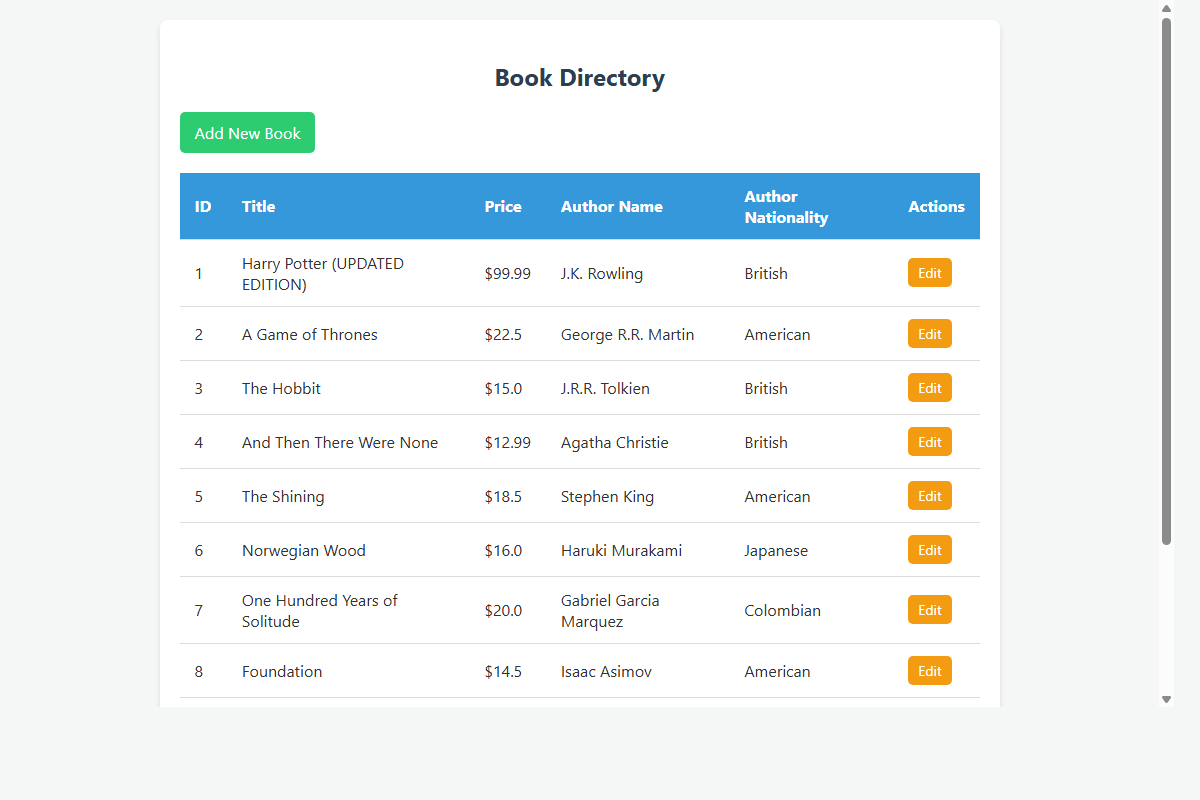
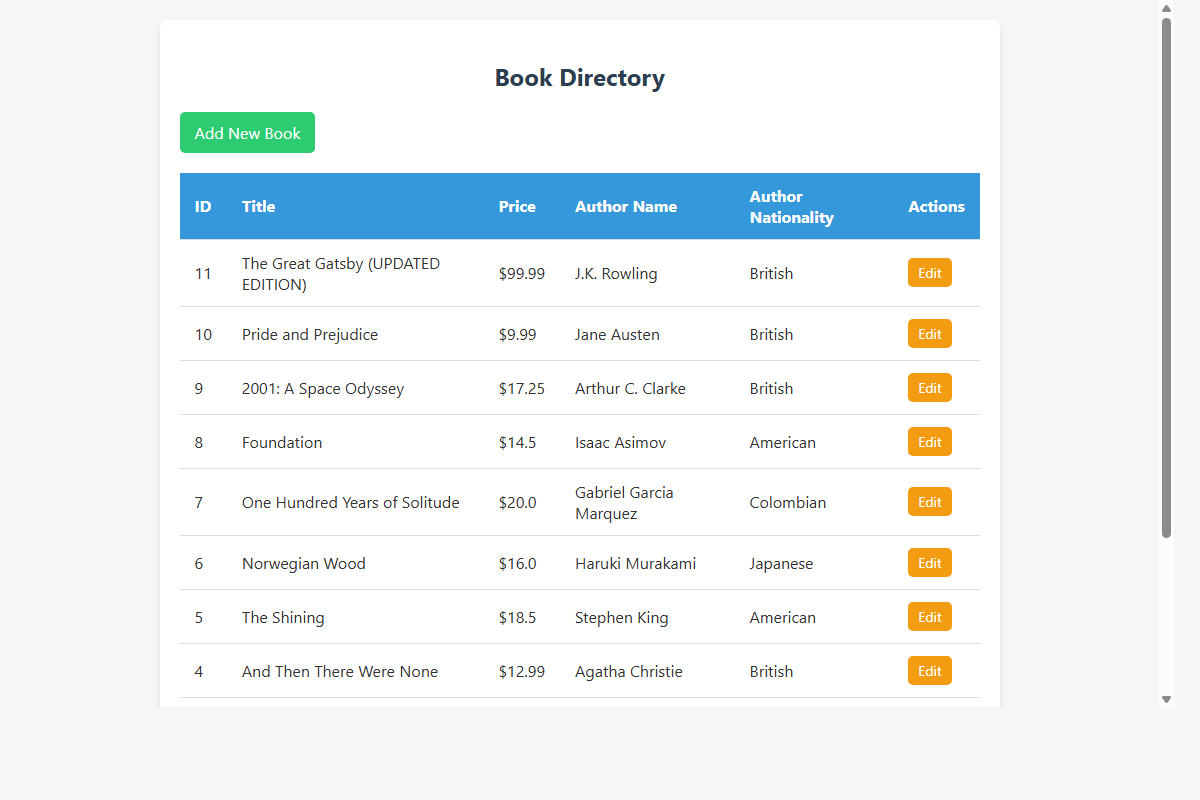
Sort books by descending ID and show updated value at the top

diff --git a/src/main/java/com/example/demo/repository/BookRepository.java b/src/main/java/com/example/demo/repository/BookRepository.java
@@ -11,6 +11,6 @@ import java.util.List;
 public interface BookRepository extends JpaRepository<Book, Long> {
 
     // Custom query method performing an inner join between Book and Author
-    @Query("SELECT b FROM Book b JOIN FETCH b.author")
+    @Query("SELECT b FROM Book b JOIN FETCH b.author ORDER BY b.id DESC")
     List<Book> findAllBooksWithAuthors();
 }
